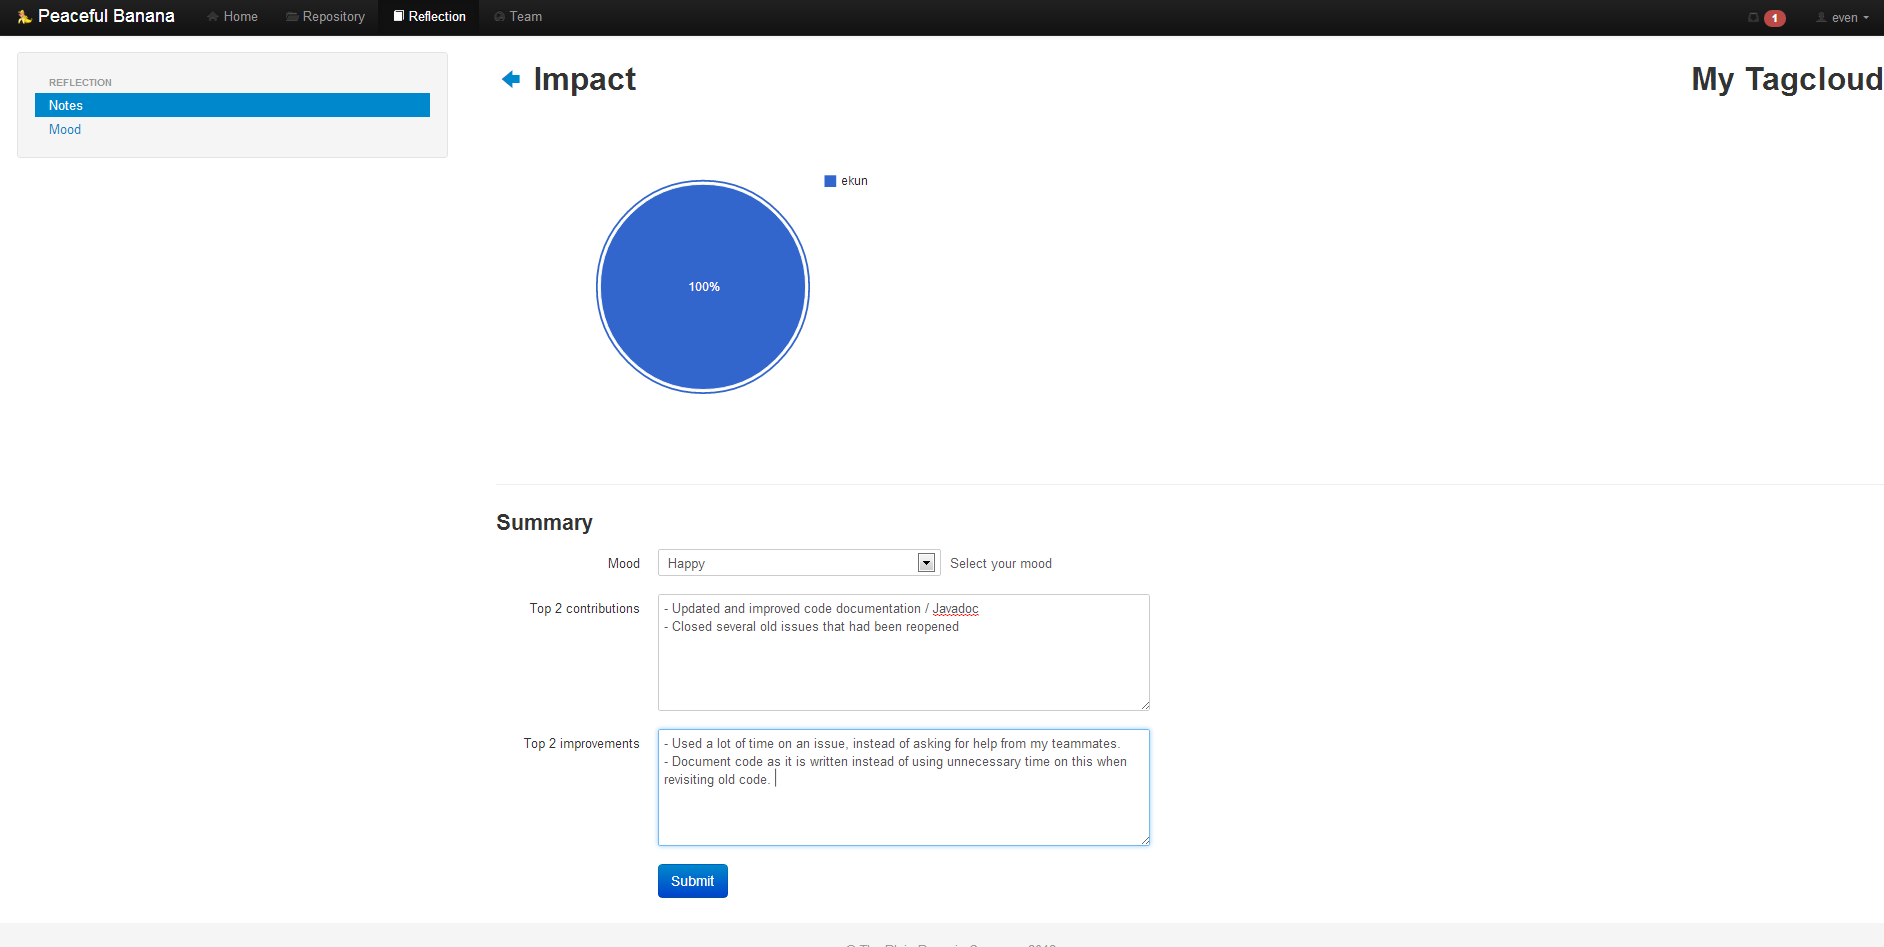
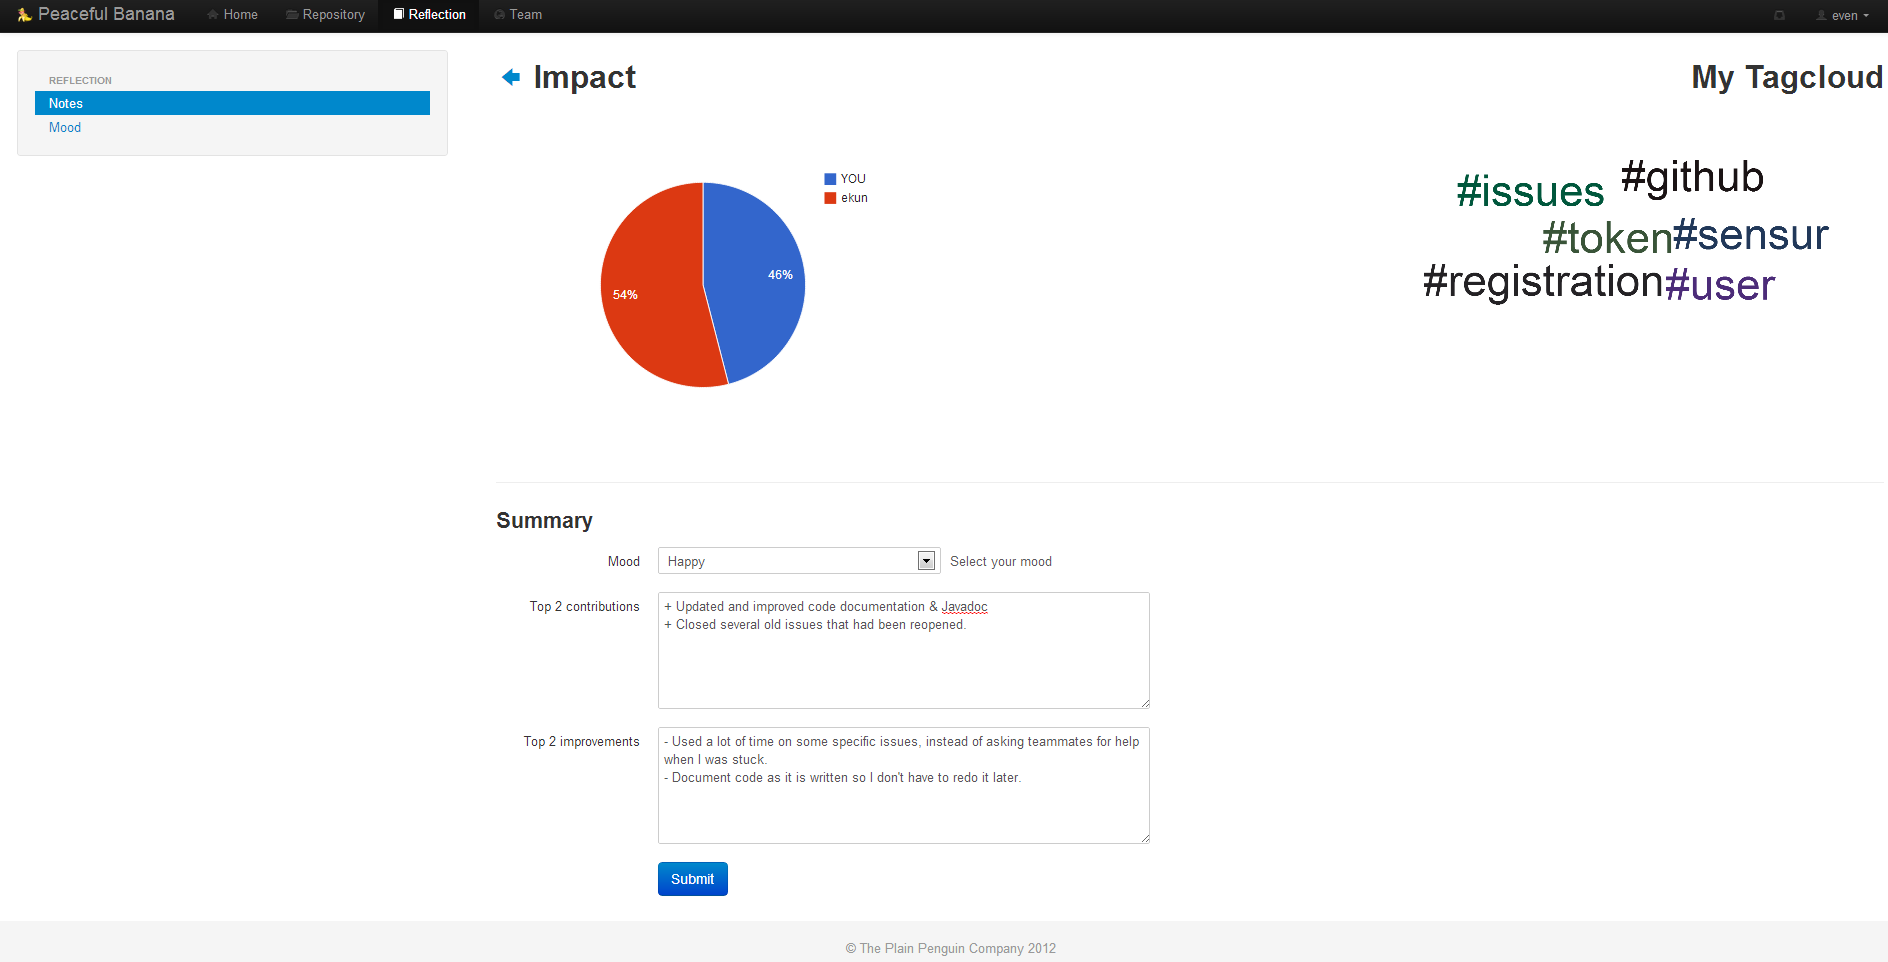
Commited changes to screens + added new screenshots

diff --git a/Report/Problemdefinition.tex b/Report/Problemdefinition.tex
@@ -55,7 +55,16 @@ In this scenario, our students will be using the tool on a daily basis at the en
 \end{figure}
 
   When clicking the notification, the student is presented with a summary of their individual activity in the last 24 hours.
-  This summary compares the commit activity of the user with the team's, and also presents a tagcloud representing the trending issues of the last day. The user is then prompted to input todays mood, their top two contributions \emph{"What did I do good?"} , and their top 2 points to improve on \emph{"What could I do better?"}. Finally the user can submit the form and choose to share these experiences with the team for collaborative use. The daily reflection notes are saved and can be reviewed at any time, and also shared any time by the user. The idea is that the tool will be used to revisit todays experiences with collected information presented in a way that triggers reflection upon these experiences. Information is collected and inspire new experiences. After working on a project that day, students "step back" to reflect on what happened during the day, and on the experiences they encountered. The tool provides scaffolded data to further trigger this reflection process. This process consist of returning to the experiences of that day, re-visit the experiences and attend to the feelings, like inputing todays mood. This reflection will help users to derive their top two improvements and contributions of the day\cite{Krogstie2011}. The tool thus captures the experiences and reflections made by the user and allows for re-visiting of these at a later date by storing them in the system. 
+  This summary compares the commit activity of the user with the team's, and also presents a tagcloud representing the trending issues of the last day. The user is then prompted to input todays mood, their top two contributions \emph{"What did I do good?"} , and their top 2 points to improve on \emph{"What could I do better?"}. Finally the user can submit the form and choose to share these experiences with the team for collaborative use.
+
+\begin{figure}[h!]
+\label{newnotification}
+\centering
+	\includegraphics[width=\textwidth]{dailysummary_onlycommit}
+\caption{The user has clicked the notification icon and can see his new notifications}
+\end{figure}
+
+   The daily reflection notes are saved and can be reviewed at any time, and also shared any time by the user. The idea is that the tool will be used to revisit todays experiences with collected information presented in a way that triggers reflection upon these experiences. Information is collected and inspire new experiences. After working on a project that day, students "step back" to reflect on what happened during the day, and on the experiences they encountered. The tool provides scaffolded data to further trigger this reflection process. This process consist of returning to the experiences of that day, re-visit the experiences and attend to the feelings, like inputing todays mood. This reflection will help users to derive their top two improvements and contributions of the day\cite{Krogstie2011}. The tool thus captures the experiences and reflections made by the user and allows for re-visiting of these at a later date by storing them in the system. 
 
 \subsection{Scenario 2 - Team use after each iteration}
 \label{scenario2}
